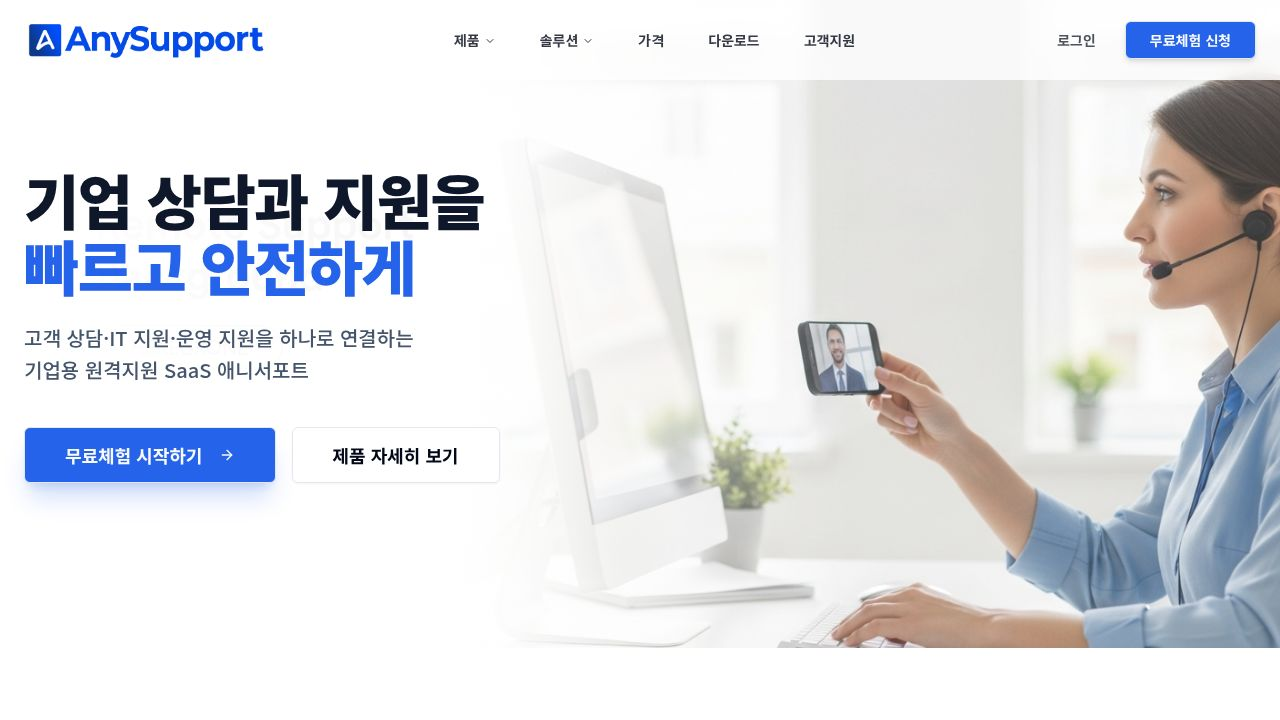
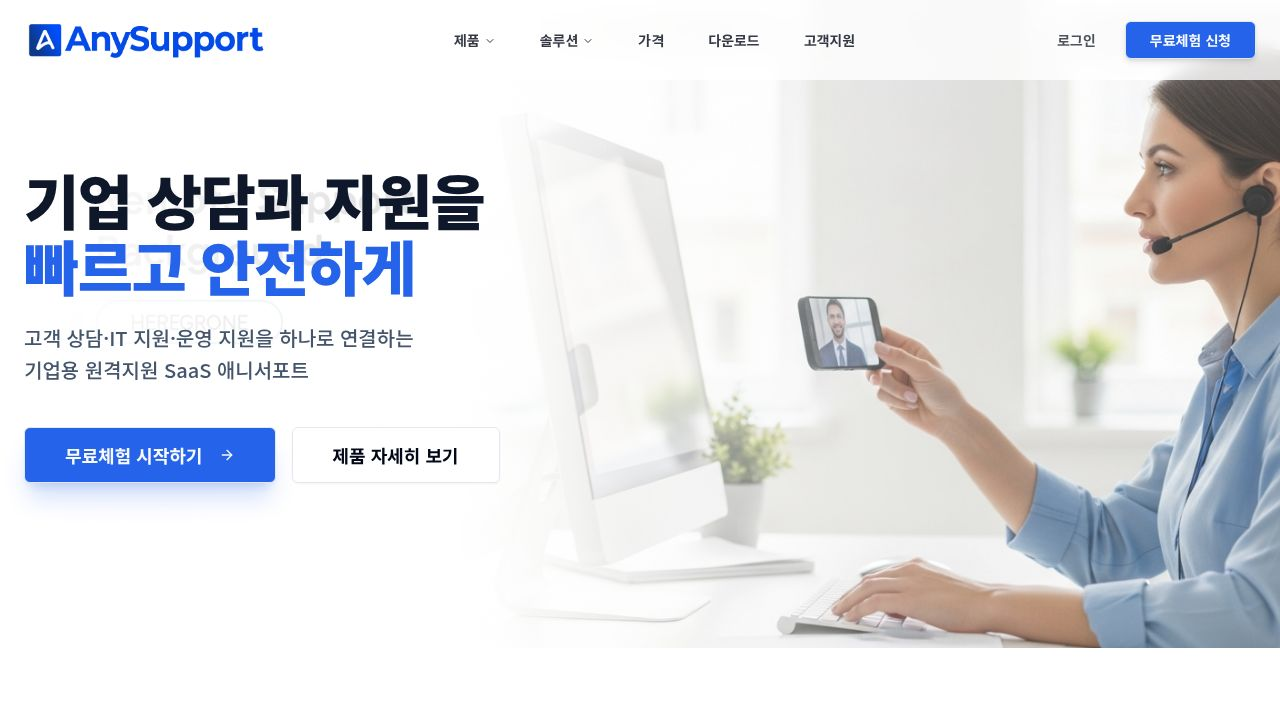
Update hero image and adjust layout for better text visibility
Replace hero image, adjust gradient background width and object positioning for improved text readability.

Replit-Commit-Author: Agent
Replit-Commit-Session-Id: 0d8ff3fa-fea3-4c32-bf19-3807ade428aa
Replit-Commit-Checkpoint-Type: full_checkpoint
Replit-Commit-Event-Id: 8dc6ba77-9c03-488d-bdec-3af909a00c75
Replit-Commit-Screenshot-Url: https://storage.googleapis.com/screenshot-production-us-central1/d1d43aaf-ab85-4a0b-a09b-85b7afb839c1/0d8ff3fa-fea3-4c32-bf19-3807ade428aa/GRCqSjf
Replit-Helium-Checkpoint-Created: true

Changed region(s): [[0.5, 0.0611, 1.0, 0.9167], [0.8125, 0.4583, 0.875, 0.55], [0.4688, 0.2139, 0.5312, 0.2444]]

diff --git a/client/src/pages/home.tsx b/client/src/pages/home.tsx
@@ -200,9 +200,9 @@ export function Home() {
           <img 
             src={heroImage} 
             alt="AnySupport Background" 
-            className="w-full h-full object-cover object-center opacity-80"
+            className="w-full h-full object-cover object-right-bottom opacity-80"
           />
-          <div className="absolute inset-0 bg-gradient-to-r from-white via-white/95 to-transparent lg:w-2/3" />
+          <div className="absolute inset-0 bg-gradient-to-r from-white via-white/80 to-transparent lg:w-3/4" />
         </div>
         
         <div className="container mx-auto px-4 md:px-6 relative z-10">
